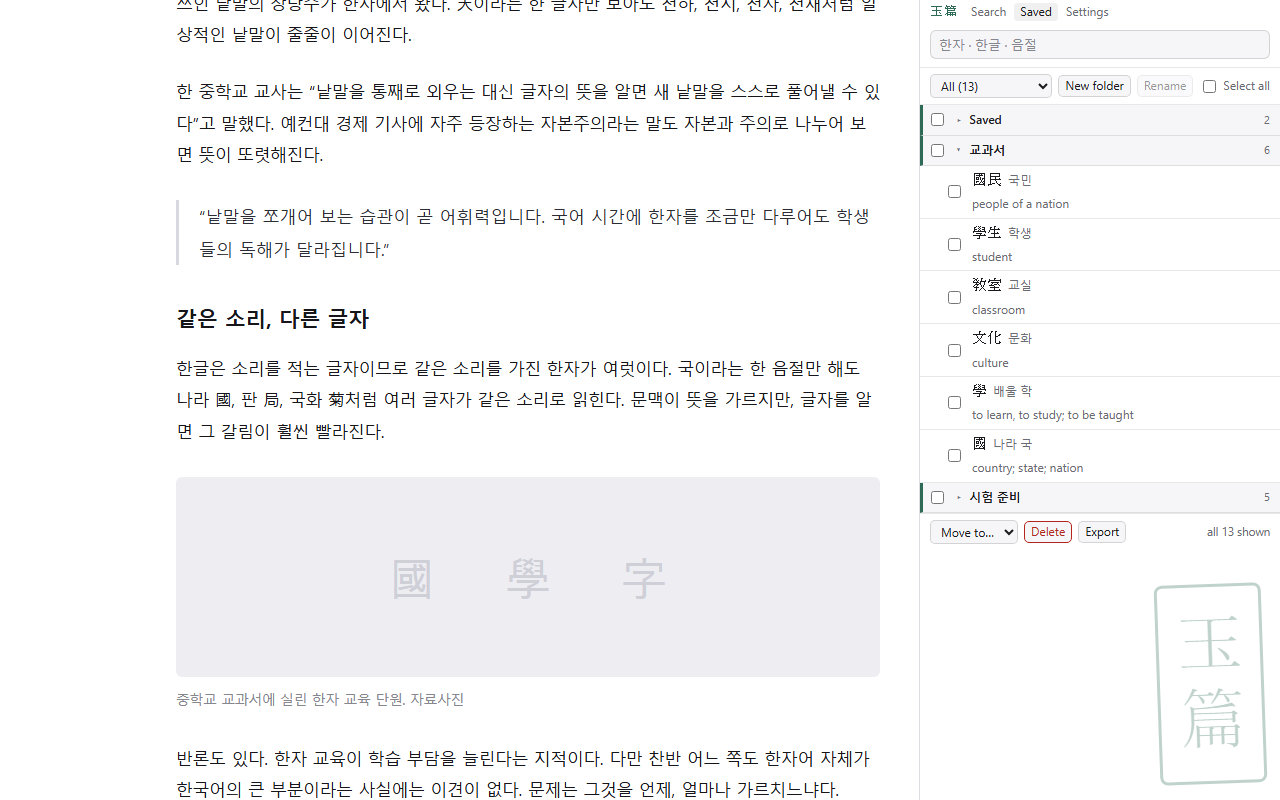
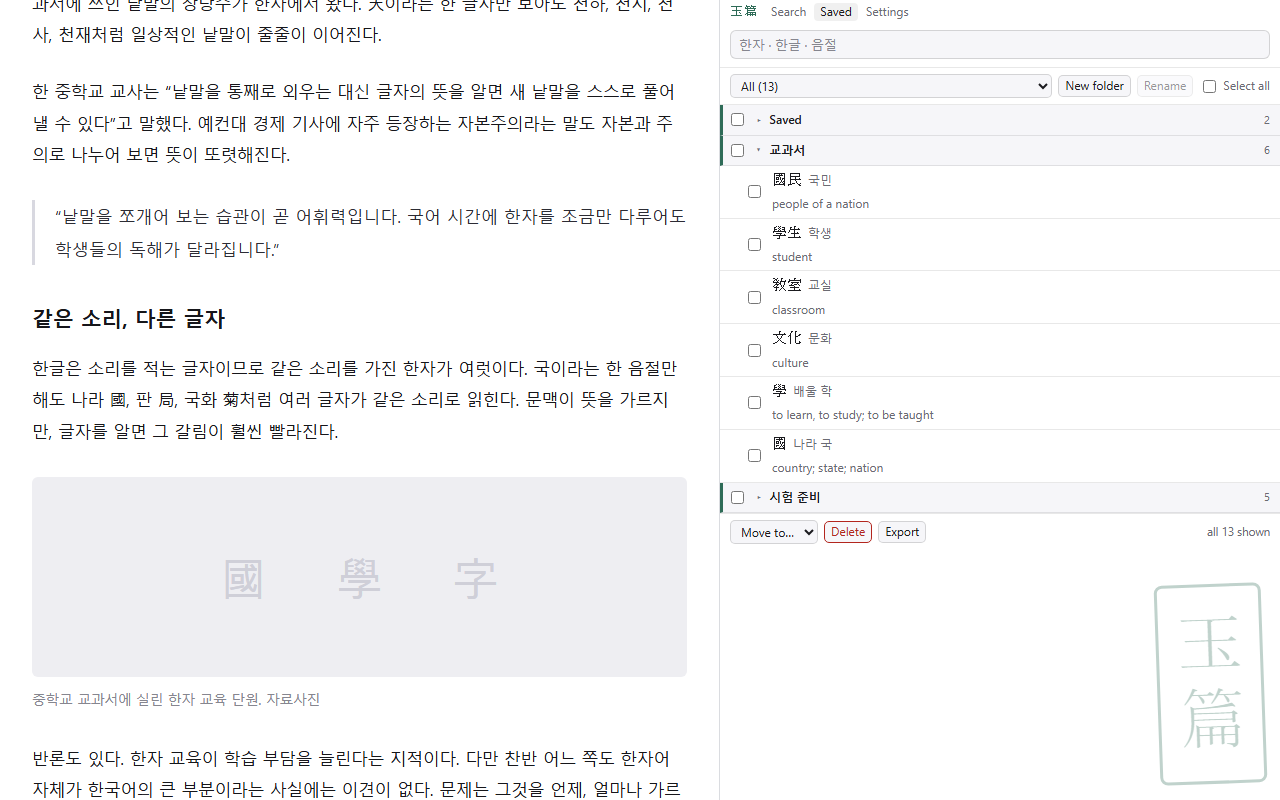
Release prep: listing rewrite, dark and wide shots, store link
store-listing.md now covers the sidebar, keyboard-free search,
decomposition and recomposition, saved words, export and settings; the
level pitch no longer assumes the reader follows the Korean school
curriculum, and the two lookup directions sit together. Shot 2 is
captured dark and the four composites carry a 560px panel, so the
frame is half product instead of a quarter. README links the live
store page.

diff --git a/pipeline/make_screenshots.py b/pipeline/make_screenshots.py
@@ -135,8 +135,11 @@ SHOTS = [
     {
         "n": 2,
         "name": "2-hangul-reverse-lookup.png",
-        # 국민 (hangul) highlighted: the hangul-to-hanja direction.
+        # 국민 (hangul) highlighted: the hangul-to-hanja direction. Captured
+        # dark: one shot of the five-store set answers "does it do dark mode",
+        # and this one reads best inverted.
         "kind": "page",
+        "dark": True,
         "page": {"scene": "2", "scroll": 262},
         "checks": [POPUP_UP, head_is("\u570b\u6c11"),
                    has_text("hangul headline", ".card .hangul", "\uad6d\ubbfc")],
@@ -167,6 +170,7 @@ SHOTS = [
         "n": 5,
         "name": "5-sidebar-search.png",
         "kind": "composite",
+        "panel_w": 560,
         "page": {"scene": "0", "scroll": 0},
         "panel": {"view": "search", "q": "\uad6d\ubbfc"},
         # The search view renders through content.js, so its nodes live in the
@@ -180,6 +184,7 @@ SHOTS = [
         "n": 6,
         "name": "6-saved-words.png",
         "kind": "composite",
+        "panel_w": 560,
         "page": {"scene": "0", "scroll": 430},
         # Six rendered rows is the most the seal's room rule tolerates: with a
         # seventh the view stops being .view--roomy and the seal correctly
@@ -200,6 +205,7 @@ SHOTS = [
         "n": 7,
         "name": "7-settings.png",
         "kind": "composite",
+        "panel_w": 560,
         "page": {"scene": "0", "scroll": 200},
         "panel": {"view": "settings"},
         "checks": [
@@ -232,6 +238,7 @@ SHOTS = [
         "n": 9,
         "name": "9-decomposition.png",
         "kind": "composite",
+        "panel_w": 560,
         "page": {"scene": "0", "scroll": 120},
         # 樂 searched in the panel, its "Made of" row opened: four parts with
         # their readings (幺's arrives via the readings[0] fallback), and the

diff --git a/store-listing.md b/store-listing.md
@@ -21,7 +21,7 @@ A study tool for Korean learners. Highlight hanja, hanzi, or kanji to read them 
 
 Okpyeon is a popup hanja dictionary and study tool for Korean learners. Much of Korean vocabulary is Sino-Korean, built from hanja roots much as English words are built from Latin and Greek, so once you know that 國 is 나라 국, the shared root in 국민, 국가, and 외국 becomes visible.
 
-Select text on any page and a card appears with the reading, the meaning, and the vocabulary that character builds. You can also look things up without a page to select from: click the toolbar icon and type a character, a word, or a syllable, or type hj followed by your query in the address bar. Typed search gives you the same cards as highlighting.
+Select text on any page and a card appears with the reading, the meaning, and the vocabulary that character builds. Or click the toolbar icon to open a sidebar with the same dictionary behind a search box; the sidebar stays open while you switch tabs and follow links. Typing hj followed by your query in the address bar searches from anywhere.
 
 ### Characters into Korean
 
@@ -29,17 +29,25 @@ Select a hanja to get its eumhun, the traditional pairing of a native Korean glo
 
 Simplified Chinese forms and Japanese shinjitai map to their traditional hanja, so 国, 学, 気, and 図 resolve to the same entries. Chinese and Japanese pages work as well as Korean ones.
 
-### Every character is graded
-
-Each character carries a level, so you always know where it sits relative to what Korean students are taught. Middle school and High school mark the two tiers of the Ministry of Education basic hanja list, the roughly 1,800 characters taught in Korean schools. Advanced covers characters outside the curriculum that still turn up in real vocabulary, and Rare covers the archaic, specialist and reading-only tail.
-
-This is there to help you spend your time well. If you are working through the curriculum, the level tells you at a glance whether a character is on your list or a detour, and in a list of characters sharing one sound it separates the handful worth learning from the rest.
-
 ### Korean words into hanja
 
 Highlight a Sino-Korean word written in hangul and Okpyeon shows the hanja behind it with the meaning, so 국민 becomes 國民. Grammatical endings are handled, so 자본주의는 in a sentence still resolves to 자본주의.
 
 Words break into their parts. 자본주의 shows the component words 資本 and 主義, and beneath them each component character with its own eumhun and meaning. Component words are clickable, so you can drill from a long compound into its pieces and back out again.
+
+### Characters split into parts
+
+A character's card shows what it is made of. 樂 opens into 幺, 白, 幺, and 木, each part with its own reading and each a full entry you can step into. The card also points the other way: 木 tells you it is a part of hundreds of characters and lists them, most productive first. Pictographs such as 心 stay whole instead of being cut into pen strokes.
+
+### Every character is graded
+
+Each character carries a level, so you always know where it sits relative to what Korean students are taught. Middle school and High school mark the two tiers of the Ministry of Education basic hanja list, the roughly 1,800 characters every Korean student learns. Advanced covers characters outside that list that still turn up in real vocabulary, and Rare covers the archaic, specialist and reading-only tail.
+
+This is there to help you spend your time well. The 1,800 school characters are a natural study list for learners too, and the level tells you at a glance whether a character is on it or a detour. In a list of characters sharing one sound, it separates the handful worth learning from the rest.
+
+### No Korean keyboard needed
+
+The sidebar search takes whatever you can type. Typing toddlf with your keyboard still in English is read back through the Korean 2-set layout and finds 생일. Typing gungmin or gukmin finds 국민: the common romanization conventions are all understood. A query that could be read either way shows both readings, most likely first.
 
 ### Browse by sound
 
@@ -53,6 +61,12 @@ A breadcrumb trail across the top records where you have been and takes you back
 
 The popup can be resized by dragging its corner when a card has more in it than you want to scroll through.
 
+### Saved words and Anki export
+
+Every card carries a star. Starring an entry saves it and lets you file it into a folder on the spot. The Saved view in the sidebar manages the collection: folders can be created, renamed, collapsed, and cleared, and entries can be moved or deleted in batches.
+
+Saved words export as an Anki text file or as a CSV spreadsheet. The settings page picks which fields go on the front and back of the Anki cards, and folder names come along as Anki tags.
+
 ### Multiple spellings and native words
 
 When a Korean word has several hanja spellings, you get all of them. 사기 offers 詐欺, 沙器, 士氣, 史記 and more in a selector you can switch between.
@@ -63,12 +77,13 @@ Native Korean words return nothing rather than a forced match, so 하늘 and 아
 
 * 9,469 hanja characters with readings, eumhun, definitions, levels and compounds
 * 27,627 Sino-Korean words indexed by both hanja and hangul
+* 9,178 character decompositions
 * 3,737 variant mappings covering simplified Chinese and Japanese shinjitai
 
 ### Private and offline
 
-The whole dictionary ships inside the extension. Okpyeon makes no network requests, collects no data, and works with no internet connection.
+The whole dictionary ships inside the extension. Okpyeon makes no network requests, collects no data, and works with no internet connection. Saved words live in the browser's local extension storage on your device.
 
 ### Sources
 
-Readings, definitions and compounds come from English Wiktionary via the kaikki.org machine readable extracts, used under CC BY-SA. Variant mappings come from Wiktionary and the Unicode Unihan database. The middle school and high school tiers of the Ministry of Education basic hanja list come from the Korean Wikipedia article 대한민국 중고등학교 기초한자 목록, used under CC BY-SA 4.0. The Advanced and Rare levels are Okpyeon's own classification.
+Readings, definitions and compounds come from English Wiktionary via the kaikki.org machine readable extracts, used under CC BY-SA. Variant mappings come from Wiktionary and the Unicode Unihan database. Character decompositions come from the BabelStone IDS database, which is in the public domain. The middle school and high school tiers of the Ministry of Education basic hanja list come from the Korean Wikipedia article 대한민국 중고등학교 기초한자 목록, used under CC BY-SA 4.0. The Advanced and Rare levels are Okpyeon's own classification.

diff --git a/ROADMAP.md b/ROADMAP.md
@@ -89,17 +89,16 @@ the 1.0 review clears anyway.
   a byte-identical DOM snapshot refactor. Groundwork for reusing the
   shell in a possible future app around a different language; each
   future per-section toggle is now a single settings schema entry.
-- Listing updates at upload time: privacy policy URL on GitHub Pages,
-  homepage field pointing at this repo, and a rewrite of store-listing.md
-  covering the sidebar, saved words, export and settings, with a style pass
-  over its newer sections (same rules as the README: no rule-of-three
-  phrasing, no flavor lines). Its search copy still describes the removed
-  toolbar popup. The screenshots and the README are done: nine 1280x800
-  shots regenerated by pipeline/make_screenshots.py. Screenshot rule for
-  future scenes: vary the featured characters across the set (the set
-  once fronted 學 in three shots; shots 1 and 9 now feature 天 and 樂,
-  and 學生 stays only in the Japanese shot, where the variant note is
-  the point).
+- Listing updates: DONE ahead of upload. store-listing.md rewritten to
+  cover the sidebar, keyboard-free search, decomposition, saved words,
+  export and settings; the privacy policy URL is live on GitHub Pages
+  and the homepage field points at this repo. The store set is five of
+  the nine committed shots (1, 2, 5, 6, 9): shot 2 is captured dark and
+  the composites carry a 560px panel, both supported per-shot by
+  pipeline/make_screenshots.py. Screenshot rule for future scenes: vary
+  the featured characters across the set (the set once fronted 學 in
+  three shots; shots 1 and 9 now feature 天 and 樂, and 學生 stays only
+  in the Japanese shot, where the variant note is the point).
 
 ### Saved words and settings (merged and verified)
 

diff --git a/README.md b/README.md
@@ -73,7 +73,7 @@ typing `hj` in the address bar searches from anywhere.
 
 ## Install
 
-From the Chrome Web Store: (pending review)
+From the [Chrome Web Store](https://chromewebstore.google.com/detail/enjmfjcemaiabocebnfokcmglfmnfjhl).
 
 From source: clone this repo, open `chrome://extensions`, enable Developer
 mode, and use **Load unpacked** on the `extension/` folder. The dictionary
